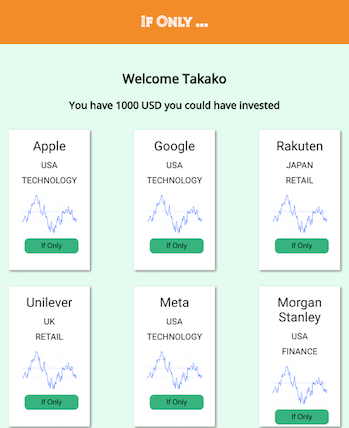
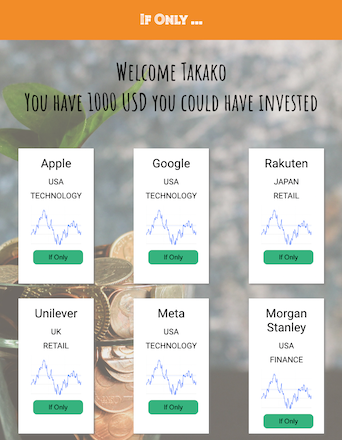
fixed inonly pic

diff --git a/src/components/projects/ProjectIfOnly.js b/src/components/projects/ProjectIfOnly.js
@@ -11,7 +11,7 @@ function ProjectIfOnly() {
 
       <Card.Body>
       <Card.Title className="text-center">If Only App</Card.Title>
-      <div class="img2">
+      <div class="img4">
       <img src={Ifonly_top} />
       </div>
       <div class="badge-container">

diff --git a/src/components/bottomComponents.css b/src/components/bottomComponents.css
@@ -65,6 +65,14 @@ img {
     margin-right: auto;
     
 }
+.img5 img {
+    width: 16rem;
+    height: 17rem;
+    display: block;
+    margin-left: auto;
+    margin-right: auto;
+    
+}
 
 
 
